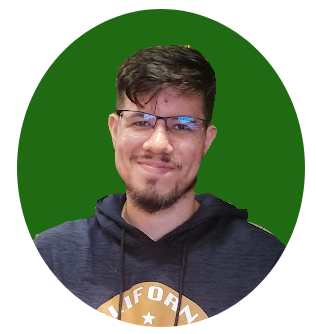
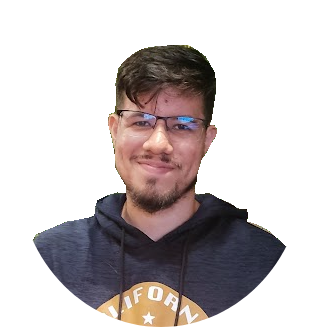
feat: new buttons

diff --git a/index.html b/index.html
@@ -1,115 +1,156 @@
 <!DOCTYPE html>
 <html lang="en">
-<head>
-    <meta charset="UTF-8">
-    
-    <meta http-equiv="X-UA-Compatible" content="IE=edge">
-    
-    <meta name="viewport" content="width=device-width, initial-scale=1.0">
+  <head>
+    <meta charset="UTF-8" />
 
-    <link rel="stylesheet" href="https://unicons.iconscout.com/release/v4.0.8/css/line.css">
+    <meta http-equiv="X-UA-Compatible" content="IE=edge" />
 
-    <link rel="stylesheet" href="assets/css/styles.css">
-    
+    <meta name="viewport" content="width=device-width, initial-scale=1.0" />
+
+    <link
+      rel="stylesheet"
+      href="https://unicons.iconscout.com/release/v4.0.8/css/line.css"
+    />
+
+    <link rel="stylesheet" href="assets/css/styles.css" />
+
     <title>Angelo Marcio Dev</title>
-</head>
-<body>   
+  </head>
+  <body>
     <header class="header" id="header">
-        <nav class="nav container">
-            <a href="#" class="nav__logo">Angelo</a>
+      <nav class="nav container">
+        <a href="#" class="nav__logo">Angelo</a>
 
-            <div class="nav__menu" id="nav-menu">
-               <ul class="nav__list grid">
-                    <li class="nav__item">
-                        <a href="#home" class="nav__link">
-                            <i class="uil uil-estate nav__icon"></i> Home
-                        </a>
-                    </li>
-                    <li class="nav__item">
-                        <a href="#about" class="nav__link">
-                            <i class="uil uil-user nav__icon"></i> About 
-                        </a>
-                    </li>
-                    <li class="nav__item">
-                        <a href="#skill" class="nav__link">
-                            <i class="uil uil-file-alt nav__icon"></i> Skills
-                        </a>
-                    </li>
-                    <li class="nav__item">
-                        <a href="#services" class="nav__link">
-                            <i class="uil uil-briefcase-alt nav__icon"></i> Services
-                        </a>
-                    </li>
-                    <li class="nav__item">
-                        <a href="#portfolio" class="nav__link">
-                            <i class="uil uil-scenery nav__icon"></i> Portfolio
-                        </a>
-                    </li>
-                    <li class="nav__item">
-                        <a href="#contacts" class="nav__link">
-                            <i class="uil uil-message nav__icon"></i> Contact me
-                        </a>
-                    </li>
-               </ul>
-               <i class="uil uil-times nav__close" id="nav-close"></i>
-            </div>
+        <div class="nav__menu" id="nav-menu">
+          <ul class="nav__list grid">
+            <li class="nav__item">
+              <a href="#home" class="nav__link">
+                <i class="uil uil-estate nav__icon"></i> Home
+              </a>
+            </li>
+            <li class="nav__item">
+              <a href="#about" class="nav__link">
+                <i class="uil uil-user nav__icon"></i> About
+              </a>
+            </li>
+            <li class="nav__item">
+              <a href="#skill" class="nav__link">
+                <i class="uil uil-file-alt nav__icon"></i> Skills
+              </a>
+            </li>
+            <li class="nav__item">
+              <a href="#services" class="nav__link">
+                <i class="uil uil-briefcase-alt nav__icon"></i> Services
+              </a>
+            </li>
+            <li class="nav__item">
+              <a href="#portfolio" class="nav__link">
+                <i class="uil uil-scenery nav__icon"></i> Portfolio
+              </a>
+            </li>
+            <li class="nav__item">
+              <a href="#contacts" class="nav__link">
+                <i class="uil uil-message nav__icon"></i> Contact me
+              </a>
+            </li>
+          </ul>
+          <i class="uil uil-times nav__close" id="nav-close"></i>
+        </div>
 
-            <div class="nav__btns">
-                <div class="nav__toggle" id="nav-toggle">
-                    <i class="uil uil-apps"></i>
-                </div>
-            </div>
-        </nav>
-    </header> 
+        <div class="nav__btns">
+          <div class="nav__toggle" id="nav-toggle">
+            <i class="uil uil-apps"></i>
+          </div>
+        </div>
+      </nav>
+    </header>
     <main class="main">
-        <section class="home section" id="home">
-            <div class="home__container container grid">
-                <div class="home__content grid">
-                    <a href="" class="home__social-icon">
-                        <i class="uil uil-linkedin-alt"></i>
-                    </a>
-                    <a href="https://www.youtube.com/channel/UCjy-nU3U4cqDLoGX8gruiow" class="home__social-icon">
-                        <i class="uil uil-youtube"></i>
-                    </a>
-                    <a href="https://github.com/AngeloFilhoPS" class="home__social-icon">
-                        <i class="uil uil-github-alt"></i>
-                    </a>
-                    <a href="https://www.instagram.com/angelo.marcio_dev/" class="home__social-icon">
-                        <i class="uil uil-instagram"></i>
-                    </a>
-                </div>
+      <section class="home section" id="home">
+        <div class="home__container container grid">
+          <div class="home__content grid">
+            <div class="home__social">
+              <a
+                href="https://www.linkedin.com/in/angelofilhops/"
+                target="_blank"
+                class="home__social-icon"
+              >
+                <i class="uil uil-linkedin-alt"></i>
+              </a>
+              <a
+                href="https://www.youtube.com/channel/UCjy-nU3U4cqDLoGX8gruiow"
+                target="_blank"
+                class="home__social-icon"
+              >
+                <i class="uil uil-youtube"></i>
+              </a>
+              <a
+                href="https://github.com/AngeloFilhoPS"
+                target="_blank"
+                class="home__social-icon"
+              >
+                <i class="uil uil-github-alt"></i>
+              </a>
+              <a
+                href="https://www.instagram.com/angelo.marcio_dev/"
+                target="_blank"
+                class="home__social-icon"
+              >
+                <i class="uil uil-instagram"></i>
+              </a>
+            </div>
 
-                <div class="home__img">
-                    <svg class="home__blob" viewBox="0 0 200 187" xmlns="http://www.w3.org/2000/svg" xmlns:xlink="http://www.w3.org/1999/xlink">
-                        <mask id="mask0" mask-type="alpha">
-                            <path d="M190.312 36.4879C206.582 62.1187 201.309 102.826 182.328 134.186C163.346 165.547 
+            <div class="home__img">
+              <svg
+                class="home__blob"
+                viewBox="0 0 200 187"
+                xmlns="http://www.w3.org/2000/svg"
+                xmlns:xlink="http://www.w3.org/1999/xlink"
+              >
+                <mask id="mask0" mask-type="alpha">
+                  <path
+                    d="M190.312 36.4879C206.582 62.1187 201.309 102.826 182.328 134.186C163.346 165.547 
                             130.807 187.559 100.226 186.353C69.6454 185.297 41.0228 161.023 21.7403 129.362C2.45775 
                             97.8511 -7.48481 59.1033 6.67581 34.5279C20.9871 10.1032 59.7028 -0.149132 97.9666 
-                            0.00163737C136.23 0.303176 174.193 10.857 190.312 36.4879Z"/>
-                        </mask>
-                        <g mask="url(#mask0)">
-                            <path d="M190.312 36.4879C206.582 62.1187 201.309 102.826 182.328 134.186C163.346 
+                            0.00163737C136.23 0.303176 174.193 10.857 190.312 36.4879Z"
+                  />
+                </mask>
+                <g mask="url(#mask0)">
+                  <path
+                    d="M190.312 36.4879C206.582 62.1187 201.309 102.826 182.328 134.186C163.346 
                             165.547 130.807 187.559 100.226 186.353C69.6454 185.297 41.0228 161.023 21.7403 
                             129.362C2.45775 97.8511 -7.48481 59.1033 6.67581 34.5279C20.9871 10.1032 59.7028 
-                            -0.149132 97.9666 0.00163737C136.23 0.303176 174.193 10.857 190.312 36.4879Z"/>
-                            <image class="home__blob-img" xlink:href="assets/img/perfil.png"/>
-                        </g>
-                    </svg>
-                </div>
-
-                <div class="home__data">
-                    <h1 class="home__title">Hi, I'm Angelo</h1>
-                    <h3 class="home__subtitle">Fullstack Developer</h3>
-                    <p class="home__description">Enthusiast in the development area since 2016, with experience in backend, frontend and
-                        mobile projects</p>
-                        <a href="#contact" class="button button--flex">
-                            Contact Me <i class="uil uil-message button__icon"></i> 
-                        </a>
-                </div>
+                            -0.149132 97.9666 0.00163737C136.23 0.303176 174.193 10.857 190.312 36.4879Z"
+                  />
+                  <image
+                    class="home__blob-img"
+                    xlink:href="assets/img/perfil.png"
+                  />
+                </g>
+              </svg>
             </div>
-        </section>
+
+            <div class="home__data">
+              <h1 class="home__title">Hi, I'm Angelo</h1>
+              <h3 class="home__subtitle">Fullstack Developer</h3>
+              <p class="home__description">
+                Enthusiast in the development area since 2016, with experience
+                in backend, frontend and mobile projects
+              </p>
+              <a href="#contact" class="button button--flex">
+                Contact Me <i class="uil uil-message button__icon"></i>
+              </a>
+            </div>
+          </div>
+          <div class="home__scroll">
+            <a href="#about" class="home__scroll-button button--flex">
+                <i class="uil uil-mouse-alt home__scroll-mouse"></i>
+                <span class="home__scroll-name">Scroll down</span>
+                <i class="uil uil-arrow-down home__scroll-arrow"></i>
+            </a>
+          </div>
+        </div>
+      </section>
     </main>
     <script src="assets/js/main.js"></script>
-    
-</body>
+  </body>
 </html>

diff --git a/assets/css/styles.css b/assets/css/styles.css
@@ -101,7 +101,6 @@ img{
 
 .section{
     padding: 2rem 0 4rem;
-
 }
 
 .section__title{
@@ -218,3 +217,107 @@ img{
     color: var(--first-color-alt)
 }
 
+.show-menu{
+    bottom: 0;
+}
+
+.home__container{
+    gap: 1rem;
+}
+
+.home__content{
+    grid-template-columns: .5fr 3fr;
+    padding-top: 3.5rem;
+    align-items: center;
+}
+
+.home__social{
+    display: grid;
+    grid-template-columns: max-content;
+    row-gap: 1rem;
+}
+
+.home__social-icon{
+    font-size: 1.25rem;
+    color: var(--first-color);
+}
+
+.home__social-icon:hover{
+    color: var(--first-color-alt);
+}
+.home__blob{
+    width: 200px;
+    fill: var(--first-color)
+}
+.home__blob-img{
+    width: 200px;
+}
+.home__data{
+    grid-column: 1/3;
+}
+
+.home__title{
+    font-size: var(--big-font-size);
+}
+
+.home__subtitle{ 
+    font-size: var(--h3-font-size);
+    color: var(--text-color);
+    font-weight: var(--font-medium);
+    margin-bottom: var(--mb-0-75);
+}
+
+.home__description{
+    margin-bottom: var(--mb-2);
+    color: black;
+}
+
+.home__scroll{
+
+}
+.home__scroll-button{
+    color: var(--first-color);
+    transition: .3s;
+}
+
+.home__scroll-button:hover{
+    transform: translateY(0.25rem);
+}
+
+.home__scroll-mouse{
+    font-size: 2rem;
+}
+
+.home__scroll-name{
+    font-size: var(--small-font-size);
+    color: var(--title-color);
+    font-weight: var(--font-medium);
+    margin-right: var(--mb-0-25);
+}
+
+.home__scroll-arrow{
+    font-size: 1.25rem;
+}
+
+.button{
+    display: inline-block;
+    background-color: var(--first-color);
+    color: #fff;
+    padding: 1rem;
+    border-radius: .5rem;
+    font-weight: var(--font-medium);
+}
+.button:hover{
+    background-color: var(--first-color-alt);
+}
+
+.button__icon{
+    font-size: 1.25rem;
+    margin-left:var(--mb-0-5);
+    transition: .3s;
+}
+
+.button--flex{
+    display: inline-flex;
+    align-items: center;
+}
